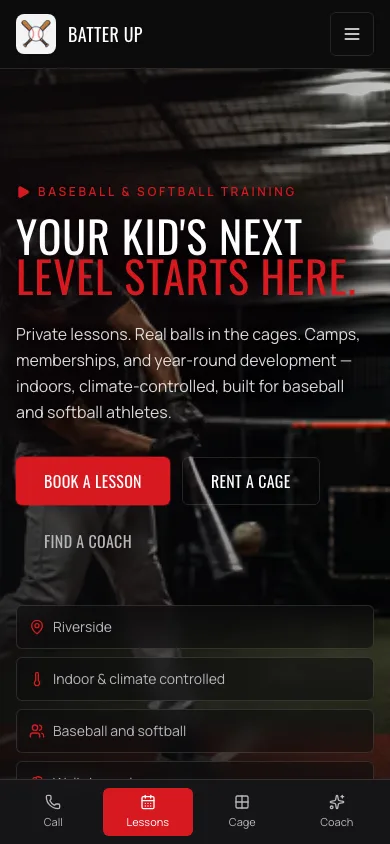
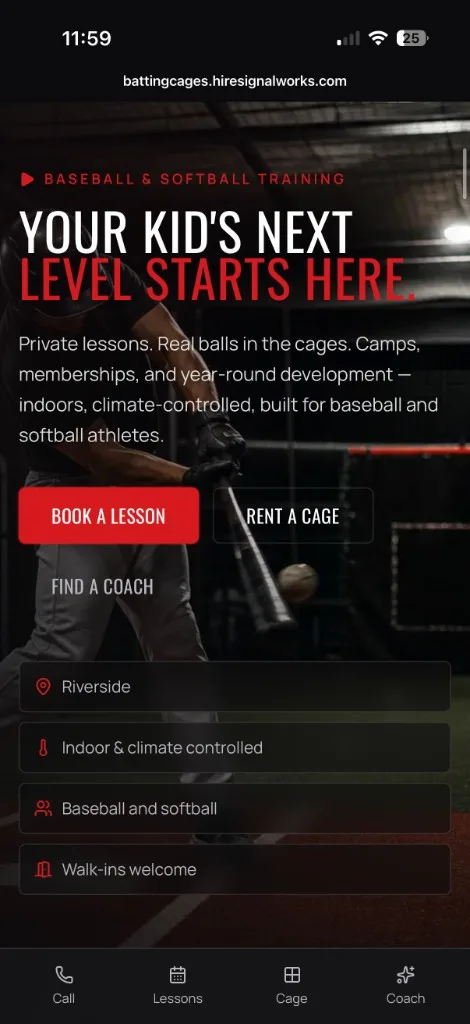
Refresh Batter Up case study gallery screenshots
Replace explore options 2–4 with baseball training, memberships, and mobile homepage captures.

diff --git a/src/data/projects.ts b/src/data/projects.ts
@@ -182,18 +182,18 @@ export const projects: Project[] = [
       },
       {
         src: "/images/work/dbat/instructors.webp",
-        label: "Programs and Services",
-        alt: "Batter Up instructor directory page",
+        label: "Baseball Training",
+        alt: "Batter Up baseball training page with instructor cards",
       },
       {
         src: "/images/work/dbat/memberships.webp",
         label: "Membership Options",
-        alt: "Batter Up memberships and pricing page",
+        alt: "Batter Up memberships page with Platinum and Gold plans",
       },
       {
         src: "/images/work/dbat/mobile.webp",
         label: "Mobile Experience",
-        alt: "Batter Up mobile homepage screenshot",
+        alt: "Batter Up mobile homepage with booking actions",
       },
     ],
     demoUrl: "https://battingcages.hiresignalworks.com",